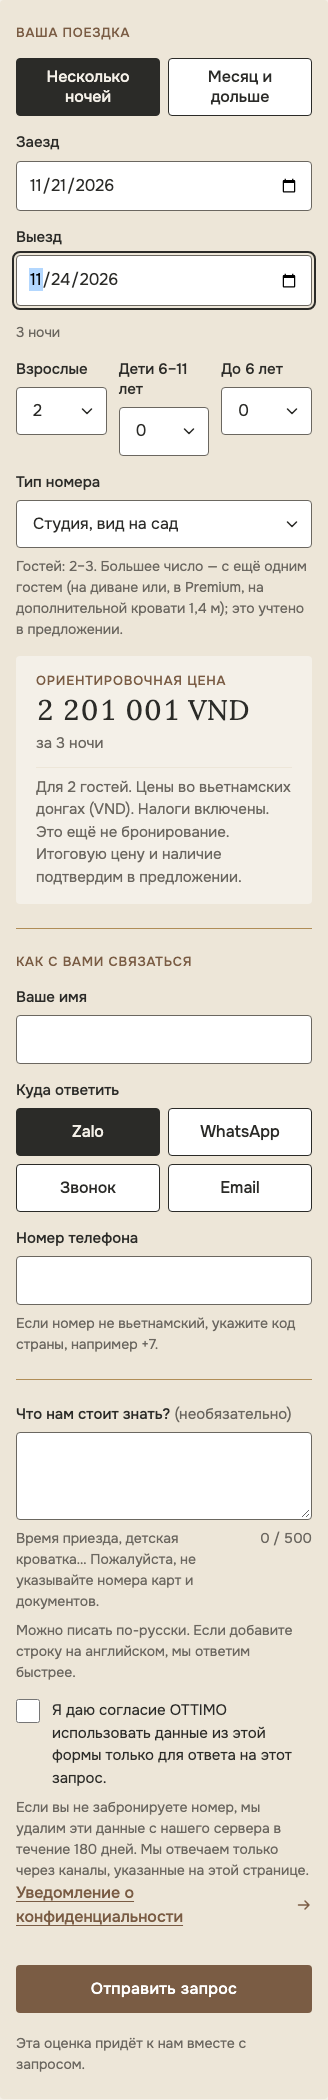
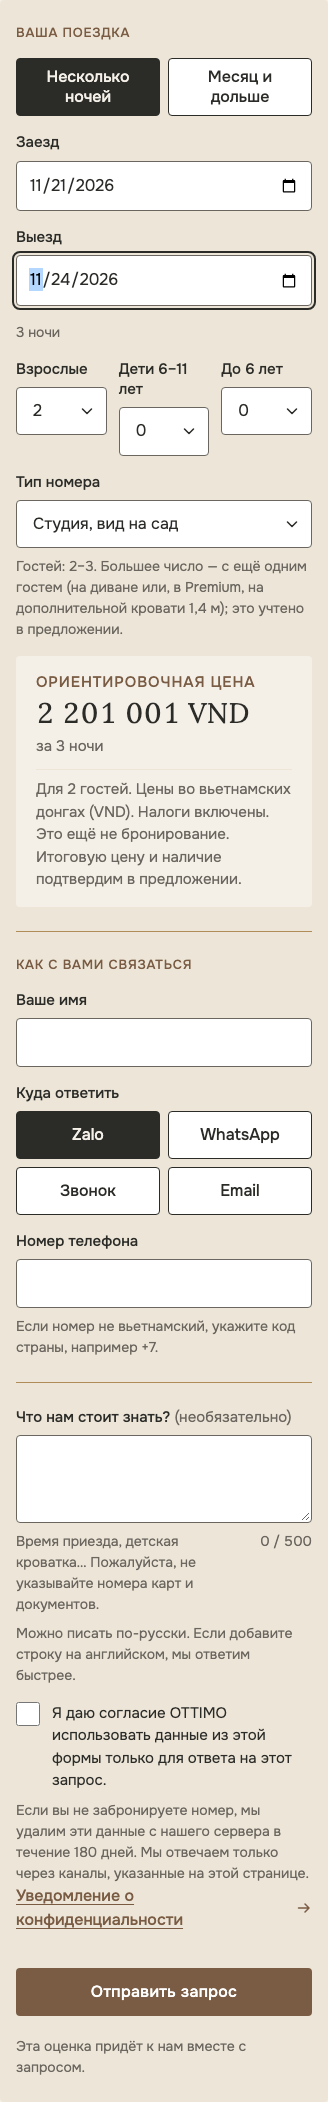
round-4: Kiểm thử – LP-v2 FE: seen-estimate compare by slug (BUG-R4-001), UXD minors, label size (BUG-R4-006)
- BUG-R4-001 (reopened): compareWithSeen slugs both the room's public type label and the
  estimate's room type with the one slug rule before comparing; the rule moves verbatim from
  the api (slugOf) to @ottimo/contracts publicRoomTypeSlug, slugOf now calls it, the Desk
  imports the same function (no second rule). @ottimo/contracts becomes a runtime dependency
  of @ottimo/api and a dependency of @ottimo/admin-web. Unassigned room (null) -> not compared
- FB-R4-UXD-FE-13: "Differs from the website estimate: {from} -> {to}" + "today's rate" hint
- FB-R4-UXD-FE-14: rooms.public_type_help without "rate on request" (matches api: unassigned
  rooms belong to no public type)
- FB-R4-UXD-FE-15: manager sees the public type as a DS C3 read-only field; unassigned adds
  the consequence before "owner only"
- FB-R4-UXD-FE-16: .est-line 14 -> 15 px; BUG-R4-006: .est-lbl 13 -> 15 px
- tests: contracts slug (2), admin-web r4-lp-v2-fea 16 (label-shaped real data), Playwright
  TC-LP-063 checks title and line sizes; screenshots lp-v2-fe3-* (made-up data)

diff --git a/product/apps/admin-web/src/__tests__/r4-lp-v2-fea.test.tsx b/product/apps/admin-web/src/__tests__/r4-lp-v2-fea.test.tsx
@@ -79,21 +79,47 @@ describe('BUG-R4-001 – estimate the guest saw (US-131 AC10)', () => {
     expect(seenEstimate(same as never)?.atSubmitVnd).toBeUndefined();
   });
 
-  it('quote for the same stay with another total → "Đã đổi: seen → now" (QA step 4)', async () => {
+  it('quote for the same stay with another total → "Khác giá web khách đã thấy: seen → now" (QA step 4)', async () => {
     // Dates with no booking on 203 in the EP02 seed (as the US-155 quote test).
     Object.assign(req('W7K3QX9P'), {
       arrival: addDays(todayLocal(), 40),
       departure: addDays(todayLocal(), 42),
     });
     req('W7K3QX9P').priceEstimate = estimate({ totalVnd: 1_000 });
+    // as on production / the Desk select: the room holds the label, the estimate the slug (BUG-R4-001 reopened)
+    const room = mockControl.db.rooms.find((r) => r.roomNo === '203')!;
+    room.publicRoomType = 'Standard Studio · Garden View';
     const { user, drawer } = await openRequest('W7K3QX9P');
     await user.click(await within(drawer).findByRole('button', { name: tv('webreq.quote') }));
     const dlg = await screen.findByRole('dialog', { name: /Báo giá cho yêu cầu W7K3QX9P/ });
-    const room = mockControl.db.rooms.find((r) => r.roomNo === '203')!;
     await user.selectOptions(within(dlg).getByLabelText(/^Căn/), room.id);
     expect(await within(dlg).findByText('Tổng tiền đơn')).toBeInTheDocument();
-    expect(await within(dlg).findByText(/^Đã đổi: 1\.000 đ → [\d.]+ đ$/)).toBeInTheDocument();
+    expect(
+      await within(dlg).findByText(/^Khác giá web khách đã thấy: 1\.000 đ → [\d.]+ đ$/),
+    ).toBeInTheDocument();
     expect(within(dlg).getByText(tv('webreq.estimate_changed_hint'))).toBeInTheDocument();
+    expect(
+      within(dlg).queryByText(tv('webreq.estimate_other', { amount: '1.000 đ' })),
+    ).not.toBeInTheDocument();
+  });
+
+  it('quote on a room of another public type (label) → reference only, never "changed"', async () => {
+    Object.assign(req('W7K3QX9P'), {
+      arrival: addDays(todayLocal(), 40),
+      departure: addDays(todayLocal(), 42),
+    });
+    req('W7K3QX9P').priceEstimate = estimate({ totalVnd: 1_000 });
+    const room = mockControl.db.rooms.find((r) => r.roomNo === '203')!;
+    room.publicRoomType = 'Standard Studio · City View';
+    const { user, drawer } = await openRequest('W7K3QX9P');
+    await user.click(await within(drawer).findByRole('button', { name: tv('webreq.quote') }));
+    const dlg = await screen.findByRole('dialog', { name: /Báo giá cho yêu cầu W7K3QX9P/ });
+    await user.selectOptions(within(dlg).getByLabelText(/^Căn/), room.id);
+    expect(await within(dlg).findByText('Tổng tiền đơn')).toBeInTheDocument();
+    expect(
+      await within(dlg).findByText(tv('webreq.estimate_other', { amount: '1.000 đ' })),
+    ).toBeInTheDocument();
+    expect(within(dlg).queryByText(/^Khác giá web khách đã thấy:/)).not.toBeInTheDocument();
   });
 
   it('quote for another party → the seen figure for reference only, never "changed"', async () => {
@@ -109,7 +135,7 @@ describe('BUG-R4-001 – estimate the guest saw (US-131 AC10)', () => {
     expect(
       within(dlg).getByText(tv('webreq.estimate_other', { amount: '1.000 đ' })),
     ).toBeInTheDocument();
-    expect(within(dlg).queryByText(/^Đã đổi:/)).not.toBeInTheDocument();
+    expect(within(dlg).queryByText(/^Khác giá web khách đã thấy:/)).not.toBeInTheDocument();
   });
 
   it('compareWithSeen: same inputs → same/changed; other dates, party or public room type → other', () => {
@@ -129,8 +155,47 @@ describe('BUG-R4-001 – estimate the guest saw (US-131 AC10)', () => {
     expect(
       compareWithSeen(seen, { ...q, publicRoomType: 'standard-studio-city-view', totalVnd: 1 }),
     ).toBe('other');
-    // a room without a public type (not sent yet – BUG-R4-004) does not block the comparison
-    expect(compareWithSeen(seen, { ...q, publicRoomType: null, totalVnd: 1 })).toBe('changed');
+    // the field not sent by the room list (api older than BUG-R4-004) does not block the comparison
+    expect(compareWithSeen(seen, { ...q, publicRoomType: undefined, totalVnd: 1 })).toBe('changed');
+  });
+
+  // BUG-R4-001 reopened (QA lượt 2): the room holds the LABEL (Desk select, production-defaults.ts), the estimate
+  // the web SLUG. Real data shape, not slug mocks.
+  it('room label vs web slug: same type → same / changed; another label or no type → other', () => {
+    const seen = seenEstimate({ ...req('W7K3QX9P'), priceEstimate: estimate() } as never)!;
+    expect(seen.roomType).toBe('standard-studio-garden-view');
+    const q = {
+      arrival: seen.arrival,
+      nights: seen.nights ?? 2,
+      adults: seen.adults,
+      children6to11: seen.children,
+      childrenUnder6: seen.infants,
+      publicRoomType: 'Standard Studio · Garden View',
+      totalVnd: 1_600_000,
+    };
+    expect(compareWithSeen(seen, q)).toBe('same');
+    expect(compareWithSeen(seen, { ...q, totalVnd: 1_740_000 })).toBe('changed');
+    expect(compareWithSeen(seen, { ...q, publicRoomType: 'Standard Studio · City View' })).toBe(
+      'other',
+    );
+    expect(compareWithSeen(seen, { ...q, publicRoomType: 'Premium · One Bedroom + 1' })).toBe(
+      'other',
+    );
+    // unassigned room = no type on the website → never compared
+    expect(compareWithSeen(seen, { ...q, publicRoomType: null, totalVnd: 1 })).toBe('other');
+    // the other two shapes of the 4 e-brochure labels slug as the landing does
+    const premium = { ...seen, roomType: 'premium-one-bedroom-1' };
+    expect(compareWithSeen(premium, { ...q, publicRoomType: 'Premium · One Bedroom + 1' })).toBe(
+      'same',
+    );
+    const signature = { ...seen, roomType: 'signature-two-bedrooms' };
+    expect(
+      compareWithSeen(signature, {
+        ...q,
+        publicRoomType: 'Signature · Two Bedrooms',
+        totalVnd: 2,
+      }),
+    ).toBe('changed');
   });
 });
 
@@ -231,16 +296,30 @@ describe('BUG-R4-004 – public room type in the unit drawer (owner only)', () =
       'Standard Studio · City View';
     const cap = capturePatches();
     const { user, dlg } = await openRoom('qa.mgr', '101');
-    expect(
-      within(dlg).queryByLabelText(new RegExp(`^${tv('rooms.public_type')}`)),
-    ).not.toBeInTheDocument();
-    expect(within(dlg).getByText('Standard Studio · City View')).toBeInTheDocument();
-    expect(within(dlg).getByText(tv('rooms.public_type_owner_only'))).toBeInTheDocument();
+    // FB-R4-UXD-FE-15: DS C3 read-only field – label above, value in a read-only control, no select
+    const field = within(dlg).getByLabelText(new RegExp(`^${tv('rooms.public_type')}`));
+    expect(field.tagName).toBe('INPUT');
+    expect(field).toHaveAttribute('readonly');
+    expect(field).toHaveValue('Standard Studio · City View');
+    expect(field).toHaveAccessibleDescription(tv('rooms.public_type_owner_only'));
+    expect(within(dlg).queryByText(tv('rooms.public_type_help'))).not.toBeInTheDocument();
     await user.click(within(dlg).getByRole('switch'));
     await user.click(within(dlg).getByRole('button', { name: 'Lưu' }));
     await waitFor(() => expect(cap.sent).toHaveLength(1));
     expect(cap.sent[0]).not.toHaveProperty('publicRoomType');
     await waitFor(() => expect(screen.queryByRole('dialog')).not.toBeInTheDocument());
     cap.stop();
+  });
+
+  it('manager, unassigned room: "Not assigned" read-only + the consequence to tell the owner', async () => {
+    mockControl.db.rooms.find((r) => r.roomNo === '101')!.publicRoomType = null;
+    const { dlg } = await openRoom('qa.mgr', '101');
+    const field = within(dlg).getByLabelText(new RegExp(`^${tv('rooms.public_type')}`));
+    expect(field).toHaveAttribute('readonly');
+    expect(field).toHaveValue(tv('rooms.public_type_none'));
+    expect(field).toHaveAccessibleDescription(
+      `${tv('rooms.public_type_help')} ${tv('rooms.public_type_owner_only')}`,
+    );
+    expect(tv('rooms.public_type_help')).toContain('Căn chưa gán không thuộc hạng nào trên web.');
   });
 });

diff --git a/product/apps/admin-web/src/pages/webreq/labels.ts b/product/apps/admin-web/src/pages/webreq/labels.ts
@@ -3,6 +3,7 @@ import type {
   WebsiteBookingRequestDeclineReason,
   WebsiteBookingRequestStatus,
 } from '@ottimo/api-client';
+import { publicRoomTypeSlug } from '@ottimo/contracts';
 import type { IconName } from '@ottimo/ui';
 import { dayMonth } from '../../app/reservations';
 
@@ -161,9 +162,13 @@ export function seenEstimate(r: WebsiteBookingRequest): SeenEstimate | null {
 }
 
 /**
- * Quote vs the estimate the guest saw (US-131 AC10 "Đã đổi: {cũ} → {mới}"): compared only when the quote is for the
- * same arrival, nights and party – and the same public room type when the room carries one (BR-012; the room list
- * may not send it yet – BUG-R4-004). Other inputs → `other`: never a "changed" claim for a different stay.
+ * Quote vs the estimate the guest saw (US-131 AC10 "Khác giá web khách đã thấy: {cũ} → {mới}"): compared only when the
+ * quote is for the same arrival, nights and party, and a room of the same public room type (BR-012). The room holds
+ * the type **label** ("Standard Studio · Garden View") while the estimate carries the website **slug**
+ * (`standard-studio-garden-view`, OpenAPI 0.3.10 bổ sung 3), so both go through the one slug rule the api uses
+ * (`publicRoomTypeSlug`, BUG-R4-001 reopened). A room with no public type (`null`) belongs to no type on the website
+ * → `other`. `undefined` = the room list did not send the field (an api older than BUG-R4-004) → not checked.
+ * Other inputs → `other`: never a "changed" claim for a different stay.
  */
 export function compareWithSeen(
   seen: SeenEstimate,
@@ -183,7 +188,9 @@ export function compareWithSeen(
     q.adults === seen.adults &&
     q.children6to11 === seen.children &&
     q.childrenUnder6 === seen.infants &&
-    (!q.publicRoomType || q.publicRoomType === seen.roomType);
+    (q.publicRoomType === undefined ||
+      (!!q.publicRoomType &&
+        publicRoomTypeSlug(q.publicRoomType) === publicRoomTypeSlug(seen.roomType)));
   if (!sameInputs) return 'other';
   return q.totalVnd === seen.totalVnd ? 'same' : 'changed';
 }

diff --git a/product/tests/e2e/landing/lp-v2.landing.spec.ts b/product/tests/e2e/landing/lp-v2.landing.spec.ts
@@ -621,14 +621,22 @@ for (const lang of Object.keys(PAGES) as Lang[]) {
       // CSS pixels, not money: "15px" → 15
       const px = (sel: string) =>
         Number(getComputedStyle(document.querySelector(sel)!).fontSize.replace('px', ''));
+      const lines = Array.from(document.querySelectorAll('#bk-est .est-line, #bk-est .est-nights'));
       return {
         note: px('#bk-est .est-note'),
+        // BUG-R4-006: the "Estimated rate" title is idea (1) of AC4 – same floor as the note
+        title: px('#bk-est .est-lbl'),
+        // FB-R4-UXD-FE-16: every line explaining the figure reads at one size
+        lines: lines.map((e) => Number(getComputedStyle(e).fontSize.replace('px', ''))),
         label: px('.f-label, .field > label'),
         hint: px('.hint'),
       };
     });
     expect(sizes.note).toBeGreaterThanOrEqual(sizes.label);
     expect(sizes.note).toBeGreaterThanOrEqual(sizes.hint);
+    expect(sizes.title).toBeGreaterThanOrEqual(sizes.label);
+    expect(sizes.lines.length).toBeGreaterThan(0);
+    for (const l of sizes.lines) expect(l).toBe(sizes.note);
     await page.evaluate(() => {
       document.querySelector<HTMLElement>('.site-h')?.style.setProperty('position', 'static');
       document.querySelector<HTMLElement>('.stickybar')?.style.setProperty('display', 'none');
@@ -652,7 +660,7 @@ for (const lang of Object.keys(PAGES) as Lang[]) {
       `[TC-LP-063] ${lang} 360px box ${h}px, note ${noteH}px, note ${sizes.note}px / label ${sizes.label}px`,
     );
     await box(page).scrollIntoViewIfNeeded();
-    await box(page).screenshot({ path: path.join(SHOTS, `lp-v2-fe2-estimate-${lang}-360.png`) });
+    await box(page).screenshot({ path: path.join(SHOTS, `lp-v2-fe3-estimate-${lang}-360.png`) });
     expect(await cspViolations(page)).toEqual([]);
     expect(errors).toEqual([]);
     await context.close();

diff --git a/product/apps/landing-web/src/styles/landing.css b/product/apps/landing-web/src/styles/landing.css
@@ -2118,8 +2118,10 @@ legend.f-label:not(.sr) {
   margin: 0;
   transition: opacity 0.15s;
 }
+/* BUG-R4-006: the title of the box is idea (1) of US-131 AC4 – not smaller than the form text (15 px = .f-label,
+   decision UXD lượt 2 mục B); was 13 px like the section labels. Case and tracking stay. */
 .est-lbl {
-  font: 500 0.8125rem/1.4 var(--sans);
+  font: 500 0.9375rem/1.4 var(--sans);
   letter-spacing: 0.1em;
   text-transform: uppercase;
   color: var(--brand-earth);
@@ -2137,13 +2139,12 @@ legend.f-label:not(.sr) {
   letter-spacing: 0.01em;
   color: var(--brand-ink);
 }
+/* One reading size for every line that explains the figure (FB-R4-UXD-FE-16): nights, the longer-stay / nightly /
+   extra-guest lines and the note below are all 15 px; was 14 px for .est-line. */
 .est-line,
 .est-nights {
-  font-size: 0.875rem;
-  color: var(--brand-stone);
-}
-.est-nights {
   font-size: 0.9375rem;
+  color: var(--brand-stone);
 }
 /* "Checking rates…" – never faded: Stone on Ivory stays at full contrast (FB-R4-UXD-FE-07) */
 .est-wait {
@@ -2161,7 +2162,8 @@ legend.f-label:not(.sr) {
   align-self: center;
 }
 /* US-131 AC4 (BUG-R4-003): the conditions next to the figure are never smaller than the form's own text – 15 px, the
-   size of the field labels (.f-label) and of the other lines of this box; was 13 px. */
+   size of the field labels (.f-label) and of .est-lbl / .est-nights / .est-line; was 13 px. "Checking rates…" and the
+   empty state (.est-wait / .est-idle) stay 14 px: states, not price content. */
 .est-note {
   margin-top: var(--s2);
   padding-top: var(--s2);

diff --git a/product/services/api/src/modules/public-site/internal/website-request-rules.ts b/product/services/api/src/modules/public-site/internal/website-request-rules.ts
@@ -3,6 +3,7 @@
  * ARC-04, 07, 13, 14, 15, 21; ADR-014 mục 4) – no I/O, unit-tested in test/be-d-r3-s1-units.test.ts.
  */
 import { createHmac, randomBytes } from 'node:crypto';
+import { publicRoomTypeSlug } from '@ottimo/contracts';
 import {
   type LocalDate,
   type LocalTime,
@@ -306,15 +307,12 @@ export function nightsBetween(a: LocalDate, b: LocalDate): number {
   return Math.round((Date.parse(`${b}T00:00:00Z`) - Date.parse(`${a}T00:00:00Z`)) / 86_400_000);
 }
 
-/** Room type label → slug ("Standard Studio · Garden View" → standard-studio-garden-view). */
+/**
+ * Room type label → slug ("Standard Studio · Garden View" → standard-studio-garden-view). The rule lives in
+ * `@ottimo/contracts` so the Desk compares with the very same function (BUG-R4-001) – do not copy it back here.
+ */
 export function slugOf(label: string): string {
-  return label
-    .normalize('NFD')
-    .replace(/\p{M}/gu, '')
-    .replace(/[đĐ]/g, 'd')
-    .toLowerCase()
-    .replace(/[^a-z0-9]+/g, '-')
-    .replace(/^-+|-+$/g, '');
+  return publicRoomTypeSlug(label);
 }
 
 // ───────────────────────── IP keys (SR-RL-10/11, SR-SECR-07) ─────────────────────────

diff --git a/product/apps/admin-web/src/pages/RoomDrawer.tsx b/product/apps/admin-web/src/pages/RoomDrawer.tsx
@@ -313,14 +313,25 @@ export function RoomDrawer({
             )}
           </Field>
         ) : (
-          <dl className="webreq-kv">
-            <dt>{t('rooms.public_type')}</dt>
-            <dd>
-              {initialPublic || t('rooms.public_type_none')}
-              <br />
-              <span className="caption">{t('rooms.public_type_owner_only')}</span>
-            </dd>
-          </dl>
+          // FB-R4-UXD-FE-15: DS C3 read-only state (label above, value on --surface-2) like the other fields; when
+          // unassigned the manager also reads the consequence, so they know to tell the owner.
+          <Field
+            label={t('rooms.public_type')}
+            help={
+              initialPublic
+                ? t('rooms.public_type_owner_only')
+                : `${t('rooms.public_type_help')} ${t('rooms.public_type_owner_only')}`
+            }
+          >
+            {(p) => (
+              <input
+                {...p}
+                className="input"
+                readOnly
+                value={initialPublic || t('rooms.public_type_none')}
+              />
+            )}
+          </Field>
         )}
         <Field label={t('rooms.col_beds')} error={errors.bedSetup}>
           {(p) => (

diff --git a/product/packages/contracts/src/public-room-type.test.ts b/product/packages/contracts/src/public-room-type.test.ts
@@ -1,0 +1,16 @@
+import { describe, expect, it } from 'vitest';
+import { publicRoomTypeSlug } from './public-room-type.js';
+
+describe('publicRoomTypeSlug', () => {
+  it('the 4 e-brochure labels → the landing slugs (apps/landing-web/src/content/en.ts)', () => {
+    expect(publicRoomTypeSlug('Standard Studio · City View')).toBe('standard-studio-city-view');
+    expect(publicRoomTypeSlug('Standard Studio · Garden View')).toBe('standard-studio-garden-view');
+    expect(publicRoomTypeSlug('Premium · One Bedroom + 1')).toBe('premium-one-bedroom-1');
+    expect(publicRoomTypeSlug('Signature · Two Bedrooms')).toBe('signature-two-bedrooms');
+  });
+  it('Vietnamese accents and đ; a slug stays as it is', () => {
+    expect(publicRoomTypeSlug('Phòng Đôi')).toBe('phong-doi');
+    expect(publicRoomTypeSlug('standard-studio-garden-view')).toBe('standard-studio-garden-view');
+    expect(publicRoomTypeSlug('  ')).toBe('');
+  });
+});

diff --git a/product/packages/contracts/src/public-room-type.ts b/product/packages/contracts/src/public-room-type.ts
@@ -1,0 +1,16 @@
+/**
+ * The one slug rule for a public room type (OpenAPI 0.3.10 bổ sung 3, BR-012): `Room.publicRoomType` holds the
+ * label ("Standard Studio · Garden View"), the website and its requests carry the slug of that label
+ * (`standard-studio-garden-view`, landing `rooms.items[].slug`). The api (`slugOf`, public-site) and the Desk
+ * (US-131 AC10 seen-estimate compare, BUG-R4-001) both call this function – never a second copy of the rule.
+ * A slug is its own slug, so a value already in slug form passes through unchanged.
+ */
+export function publicRoomTypeSlug(label: string): string {
+  return label
+    .normalize('NFD')
+    .replace(/\p{M}/gu, '')
+    .replace(/[đĐ]/g, 'd')
+    .toLowerCase()
+    .replace(/[^a-z0-9]+/g, '-')
+    .replace(/^-+|-+$/g, '');
+}

diff --git a/product/packages/contracts/src/index.ts b/product/packages/contracts/src/index.ts
@@ -5,3 +5,5 @@ export interface HealthResponse {
   /** ISO-8601 timestamp in the property time zone, e.g. 2026-10-15T09:30:00.000+07:00 */
   time: string;
 }
+
+export { publicRoomTypeSlug } from './public-room-type.js';

diff --git a/rounds/round-04/outputs/FE/lp-v2-fe.md b/rounds/round-04/outputs/FE/lp-v2-fe.md
@@ -138,3 +138,43 @@ Khối giá nằm dưới ô hạng phòng, chỉ cao lên sau khi khách chọn
 ### 8.5 Còn chờ
 - ARC: thêm `atSubmit` chỉ đọc vào `PublicPriceEstimateRecord` (nếu chọn) – FE đã sẵn.
 - UXD/CPY: duyệt chữ Desk mới (`webreq.estimate_*`, `rooms.public_type*`) và chiều cao khối giá; người bản xứ đọc câu mới (CPY 14.7).
+
+## 9. Kiểm thử – sửa lỗi lượt 3 (01/11/2026, nhánh `lp-v2-fe3` từ `lp-v2` @ `20afedff`)
+
+### 9.1 Đã làm
+- **BUG-R4-001 mở lại (FE-A, P2):** `compareWithSeen` so nhãn căn ("Standard Studio · Garden View") với slug web (`standard-studio-garden-view`) nên không bao giờ ra "đã đổi". Sửa: cả hai vế đi qua **cùng một hàm slug** `publicRoomTypeSlug` trước khi so.
+  - Hàm slug không viết lại: luật `slugOf` của BE (`website-request-rules.ts`) chuyển nguyên văn sang `packages/contracts/src/public-room-type.ts` (`@ottimo/contracts` – gói hợp đồng dùng chung, build ra `dist`, api CommonJS đã `require()` gói ESM workspace như `@ottimo/integrations`). `slugOf` của BE nay gọi hàm này; Desk import cùng hàm. Landing không slug hóa lúc chạy (slug viết sẵn trong `content/*.ts`, test `production-bootstrap` của BE đã đối chiếu).
+  - `@ottimo/contracts` chuyển từ devDependencies sang dependencies của `@ottimo/api` (để `pnpm deploy --prod` trong `Dockerfile.api` mang theo); thêm vào dependencies `@ottimo/admin-web`. Lockfile chỉ đổi 2 importer, không thêm gói ngoài.
+  - Căn **chưa gán** (`publicRoomType: null`) nay ra "khác đầu vào" (không thuộc hạng nào trên web, BE `public-rate.port.ts` chỉ lấy căn `public_room_type = nhãn`); chỉ khi API không gửi trường (`undefined`, bản cũ trước BUG-R4-004) mới bỏ qua so hạng.
+- **FB-R4-UXD-FE-13:** `webreq.estimate_changed` vi "Khác giá web khách đã thấy: {from} → {to}" / en "Differs from the website estimate: {from} → {to}"; `webreq.estimate_changed_hint` dùng "lịch giá hôm nay" / "Today's rate" (đúng chữ UXD).
+- **FB-R4-UXD-FE-14:** `rooms.public_type_help` bỏ "giá theo yêu cầu" → vi "…web tính giá ước tính theo hạng này. Căn chưa gán không thuộc hạng nào trên web." / en "…website estimates use it. An unassigned room belongs to no type on the website." Đã kiểm hành vi BE khớp câu: `PublicRatePort.rooms` lọc `rm.public_room_type = $1`, `roomTypes()` bỏ `public_room_type IS NULL` → căn chưa gán không vào hạng nào.
+- **FB-R4-UXD-FE-15:** manager thấy ô theo trạng thái **chỉ đọc** DS C3 (`Field` + `input[readonly]` nền `--surface-2`, nhãn ở trên như các ô khác), trợ giúp dưới ô `rooms.public_type_owner_only`; khi "Chưa gán" thêm `rooms.public_type_help` trước câu đó. Không khóa chữ mới.
+- **FB-R4-UXD-FE-16:** `.est-line` 14 → 15 px (gộp với `.est-nights`); sửa chú thích CSS. `.est-wait` / `.est-idle` giữ 14 px.
+- **BUG-R4-006 (FE-B, P3):** `.est-lbl` ("Estimated rate" và tiêu đề ưu đãi theo tháng) 13 → **15 px**, giữ chữ hoa/giãn chữ. Thứ bậc: nhãn 15 px < con số Lora 28 px; ru "ОРИЕНТИРОВОЧНАЯ ЦЕНА" vẫn một dòng ở 360 px.
+- FB-R4-UXD-FE-17 (Suggestion – rút gọn `estimate_none` / `estimate_at_submit`): chưa làm lượt này (ngoài việc ORC giao); làm khi ORC xếp.
+
+### 9.2 Đo khối giá 360 px (TC-LP-063, 29 đêm, 3 khách) – sau BUG-R4-006 + FE-16
+| | Cao khối (lượt 2 → 3) | Cao ghi chú | Nhãn / ghi chú / dòng diễn giải | Tràn |
+|---|---|---|---|---|
+| en | 273 → 277 px | 122 px | 15 / 15 / 15 px | 0 |
+| vi | 250 → 255 px | 99 px | 15 / 15 / 15 px | 0 |
+| ko | 268 → 273 px | 111 px | 15 / 15 / 15 px | 0 |
+| zh | 273 → 277 px | 114 px | 15 / 15 / 15 px | 0 |
+| ru | 294 → 300 px | 122 px | 15 / 15 / 15 px | 0 |
+Dưới ngưỡng UXD (khối ≤ 320 px, ghi chú ≤ 6 dòng).
+
+### 9.3 Kiểm
+- `@ottimo/contracts` vitest 2 test mới (4 nhãn e-brochure → slug landing; dấu tiếng Việt; slug giữ nguyên).
+- admin-web vitest 63 file / 660 test đạt. `r4-lp-v2-fea.test.tsx` 16 test (thêm 3): ca **dữ liệu thật dạng nhãn** – căn "Standard Studio · Garden View" + seen `standard-studio-garden-view`, cùng ngày/khách: tổng bằng → `same`, khác → `changed`; nhãn khác / "Chưa gán" → `other`; Premium/Signature slug đúng; hộp báo giá căn 203 gán nhãn hiện "Khác giá web khách đã thấy: …", căn gán hạng khác chỉ hiện số tham khảo; manager có/không hạng (chỉ đọc, mô tả trợ giúp đúng).
+- api: `typecheck` + `build` xanh; `be-d-r3-s1-units` 45/45 (gồm `slugOf`); `node` nạp `dist` CommonJS → `slugOf('Standard Studio · Garden View')` = `standard-studio-garden-view` (đã kiểm require gói ESM chạy thật).
+- landing vitest 12 file / 281 đạt; `pnpm lint` (eslint + typecheck 13 workspace) xanh; `format:check` xanh.
+- Playwright landing `lp-v2.landing.spec.ts` 60/60 (TC-LP-063 thêm kiểm `.est-lbl` ≥ nhãn ô và mọi `.est-line`/`.est-nights` = cỡ ghi chú).
+- Ảnh (dữ liệu giả – MSW `mocks/seed.ts`, `mocks/webreq.ts`; API giả của Playwright): `screenshots/lp-v2-fe3-estimate-{en,vi,ko,zh,ru}-360.png`; Desk `lp-v2-fe3-desk-quote-changed-label.png` (căn mang nhãn, cảnh báo hiện), `lp-v2-fe3-desk-quote-other-type.png`, `lp-v2-fe3-desk-room-public-type-manager.png`, `lp-v2-fe3-desk-room-public-type-manager-unassigned.png`; TC-LP-061 chụp lại `lp-v2-*-form.png`.
+
+### 9.4 Giả định
+- Đặt hàm slug chung ở `@ottimo/contracts` (sửa 1 hàm BE + `package.json` api) thay vì để server trả slug của căn: không đổi hợp đồng API, không thêm trường. `[GIẢ ĐỊNH – FE; BE/ARC xác nhận khi review]`
+- Căn "Chưa gán" → không so ("khác đầu vào"), không báo "đã đổi". `[GIẢ ĐỊNH – FE; UXD/DOM xem]`
+
+### 9.5 Rủi ro / cần vai khác xem
+- BE/ARC: review `website-request-rules.ts` (`slugOf` gọi `@ottimo/contracts`) và việc chuyển `@ottimo/contracts` sang dependencies của api. OPS: image api cần `packages/contracts/dist` (đã có qua `turbo prune` + `build --filter=@ottimo/api...` + `pnpm deploy --prod`); QA dựng lại image để xác nhận.
+- Catalog căn của Desk được cache trong phiên: OWN đổi hạng xong, lễ tân đang mở Desk cần tải lại trang mới thấy hạng mới (như các trường căn khác – không đổi lượt này).
